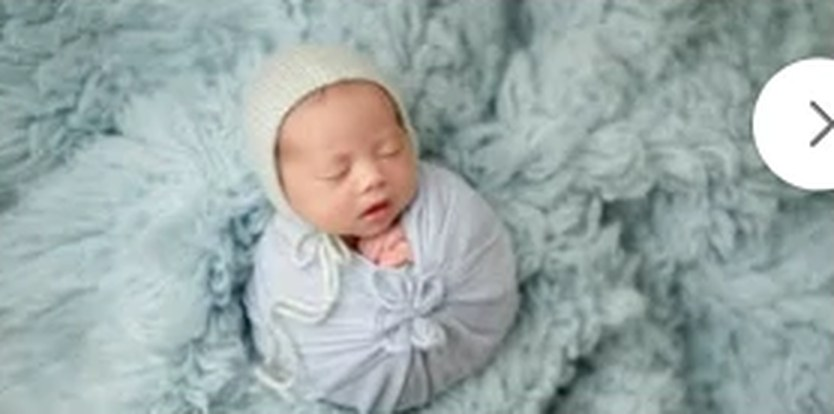
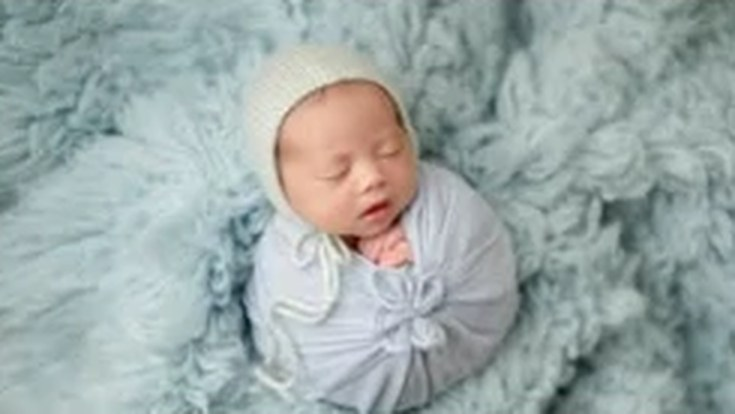
Polish portfolio tiles and crops
Claude-Session: https://claude.ai/code/session_01JEt3cNBE1D97M62xbJug84

diff --git a/dreamchaser-site/styles.css b/dreamchaser-site/styles.css
@@ -240,3 +240,5 @@ input.err{border-color:#c0392b}
 }
 .masonry figure[data-tone]{background:linear-gradient(145deg,var(--t1),var(--t2))}
 .foot .copy span{display:inline;margin:0}
+.masonry figure>img{position:absolute;inset:0;height:100%;object-fit:cover}
+.masonry figure{min-height:260px}.masonry figure.tall{min-height:460px}.masonry figure.h2{min-height:380px}
